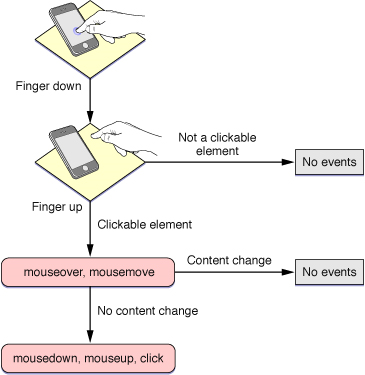
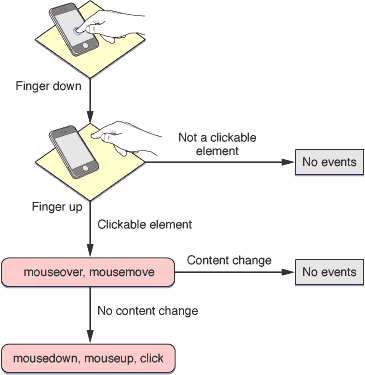
Reintroduce shortened hover section as bonus material
it's still interesting/mildly relevant, but certainly not worth the
prime-time during the main presentation

diff --git a/index.html b/index.html
@@ -3577,6 +3577,72 @@ var element = document.getElementById('test_el');
 
 <!-- -->
 
+<section class="slide statement"><div>
+<div>
+    <p>no concept of <code>hover</code><br>on <strong>touch devices</strong><br>
+    <small>iOS fakes it, Samsung Galaxy Note II/Pro + stylus, ...</small></p>
+</div>
+</div></section>
+
+<!-- -->
+
+<section class="slide"><div>
+    <img src="pictures/ios7/ios-faked-hover.png" alt="Diagrammatic flow of iOS' faked hover support - stopping event sequence if there's a 'change' on the page">
+    <p><a target=_blank href="https://developer.apple.com/library/content/documentation/AppleApplications/Reference/SafariWebContent/HandlingEvents/HandlingEvents.html">iOS Developer Library - Safari Web Content Guide - Handling Events</a></p>
+    <p>while this works ok, Safari is the only browser doing it...</p>
+</div></section>
+
+<!-- -->
+
+<section class="slide"><div>
+    <img src="pictures/android/samsung-galaxy-note-pro-12.2-stylus-hover.jpg" alt="Samsung Galaxy Note Pro with stylus has a near-field hover effect that fires mousemove events even when not touching the screen">
+    <p><a target=_blank href="https://www.youtube.com/watch?v=43MfWGGz8UE">YouTube: Samsung Galaxy Note Pro 12.2 stylus hover</a></p>
+    <p>requires advanced stylus, which is uncommon...</p>
+</div></section>
+
+<!-- -->
+
+<section class="slide"><div>
+    <img src="pictures/sites/msdn-hover-touch-support.png" alt="">
+    <p><a target=_blank href="https://msdn.microsoft.com/library/dn265029(v=vs.85).aspx">MSDN: Hover touch support</a></p>
+</div></section>
+
+<!-- -->
+
+<section class="slide"><div>
+    <img src="pictures/sites/msdn-channel9-ie11-touch-hover-movie.png" alt="">
+    <p><a target=_blank href="https://channel9.msdn.com/Blogs/IE/IE11-Using-Hover-Menus-with-Touch">Channel9 MSDN - IE11: Using Hover Menus with Touch</a></p>
+</div></section>
+
+<!-- -->
+
+<section class="slide"><div>
+    <img src="pictures/sites/msdn-using-aria-haspopup.png" alt="">
+    <p><a target=_blank href="https://msdn.microsoft.com/library/jj152135(v=vs.85).aspx">MSDN: Using aria-haspopup to simulate hover on touch-enabled devices</a></p>
+    <p>non-standard use of the <code>aria-haspopup</code> attribute...</p>
+</div></section>
+
+<!-- -->
+
+<section class="slide statement"><div>
+<div>
+    <p><strong>avoid</strong> hover interfaces?</p>
+    <p><small>arguable ... it's a user experience decision</small></p>
+</div>
+</div></section>
+
+<!-- -->
+
+<section class="slide statement"><div>
+<div>
+    <p><strong>complement</strong> for touch!</p>
+    <p><small>same considerations as for keyboard users...</small></p>
+</div>
+</div></section>
+
+
+<!-- -->
+
 <section class="slide"><div>
     <img src="pictures/sites/wicg-github-io-inputdevicecapabilities.png" alt="">
     <p><a target="_blank" href="http://wicg.github.io/InputDeviceCapabilities/">Input Device Capabilities (Draft Community Group Report)</a></p>
